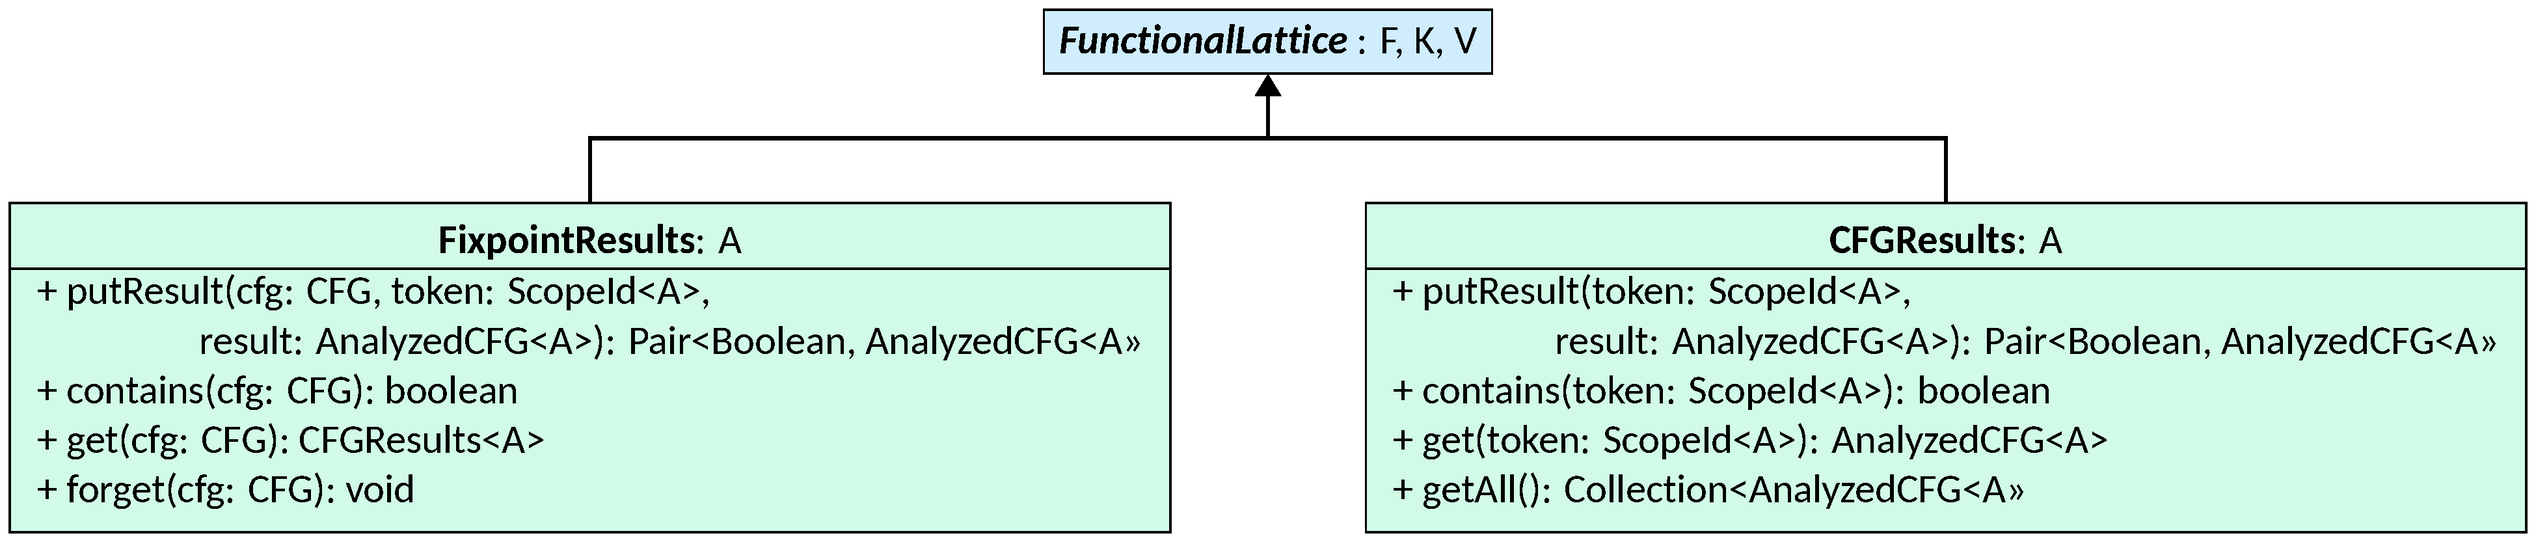
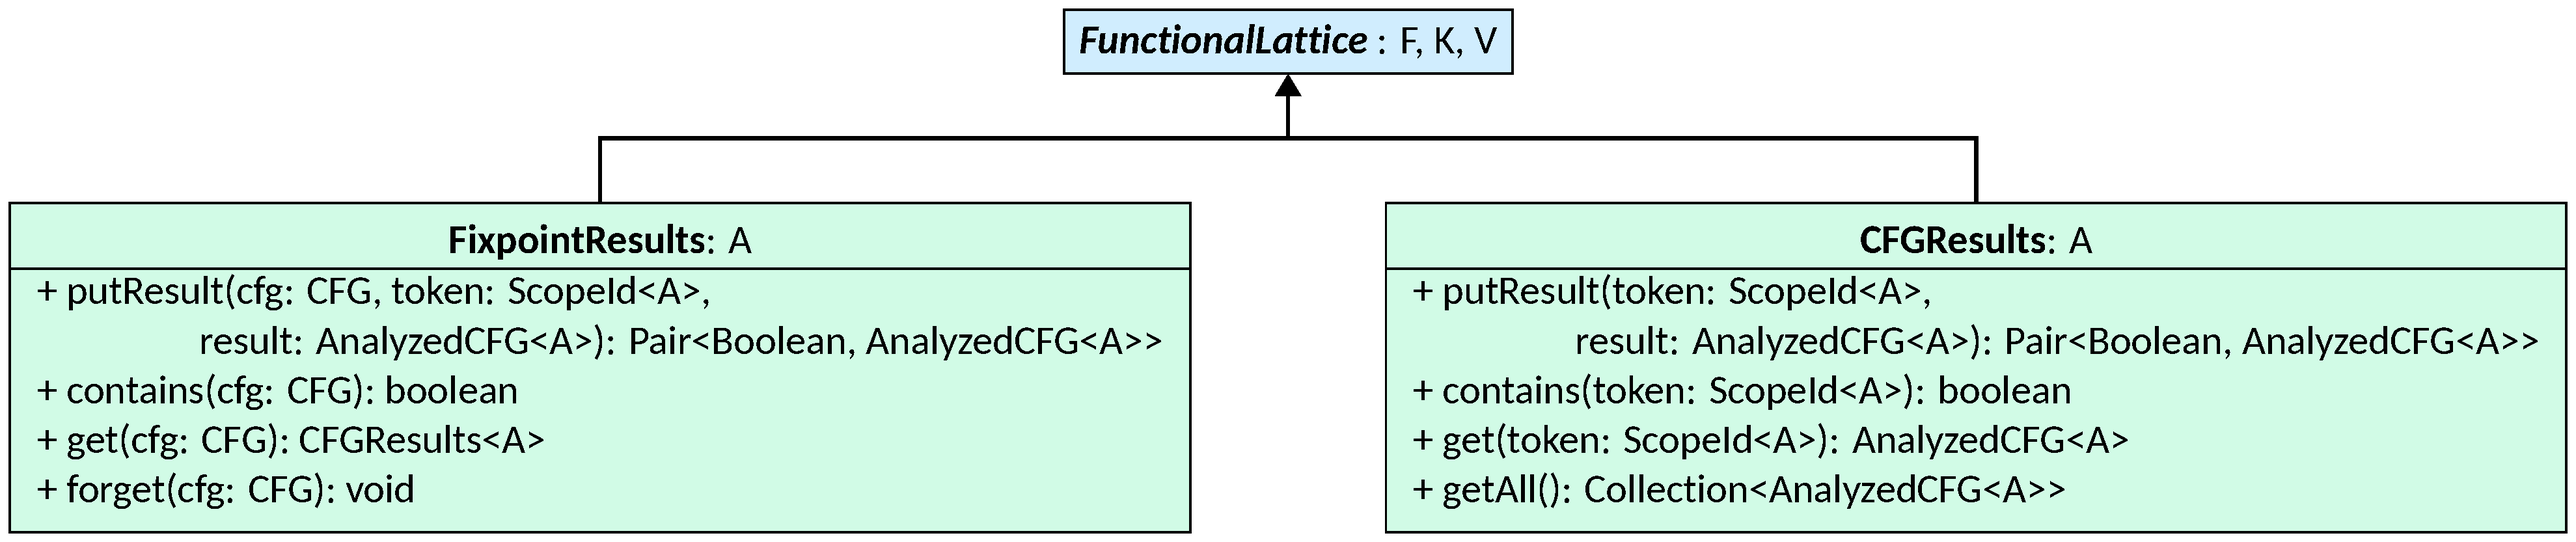
fixing angular brackets in images

diff --git a/schemes/domain-lattices.tex b/schemes/domain-lattices.tex
@@ -51,36 +51,36 @@
 		\end{tabular}};
 
 	\node[classnode, left=of ps.north west, anchor=north east] (as) {\begin{tabular}{l}
-			\multicolumn{1}{c}{\classname{AnalysisState} : A}                           \\
+			\multicolumn{1}{c}{\classname{AnalysisState} : A}                             \\
 			\hline
-			+ withExecution(state: ProgramState<A>): AnalysisState<A>                   \\
-			+ withHalt(state: ProgramState<A>): AnalysisState<A>                        \\
-			+ getExecutionState(): A                                                    \\
-			+ getExecutionExpressions(): ExpressionSet                                  \\
-			+ withExecutionExpression(expr: SymbolicExpression): AnalysisState<A>       \\
-			+ withExecutionExpressions(exprs: ExpressionSet): AnalysisState<A>          \\
-			+ getExecutionInformation(): FixpointInfo                                   \\
-			+ getExecutionInfo(key: String): Lattice<?>                                 \\
-			+ <T> getExecutionInfo(key: String, type: Class<T>): T                      \\
-			+ storeExecutionInfo(key: String, info: Lattice<?>): AnalysisState<A>       \\
-			+ weakStoreExecutionInfo(key: String, info: Lattice<?>): AnalysisState<A>   \\
-			+ getExecution(): ProgramState<A>                                           \\
-			+ getHalt(): ProgramState<A>                                                \\
-			+ getErrors(): GenericMapLattice<Error, ProgramState<A>>                    \\
-			+ getSmashedErrors(): GenericMapLattice<Type, GenericSetLattice<Statement>> \\
-			+ getSmashedErrorsState(): ProgramState<A>                                  \\
-			+ removeAllErrors(): AnalysisState<A>                                       \\
-			+ addError(): AnalysisState<A>                                              \\
-			+ addErrors(): AnalysisState<A>                                             \\
-			+ removeErrors(): AnalysisState<A>                                          \\
-			+ addSmashedError(): AnalysisState<A>                                       \\
-			+ addSmashedErrors(): AnalysisState<A>                                      \\
-			+ removeSmashedErrors(): AnalysisState<A>                                   \\
-			+ bottomExecution(): AnalysisState<A>                                       \\
-			+ topExecution(): AnalysisState<A>                                          \\
-			+ withTopMemory(): AnalysisState<A>                                         \\
-			+ withTopValues(): AnalysisState<A>                                         \\
-			+ withTopTypes(): AnalysisState<A>                                          \\
+			+ withExecution(state: ProgramState<A>): AnalysisState<A>                     \\
+			+ withHalt(state: ProgramState<A>): AnalysisState<A>                          \\
+			+ getExecutionState(): A                                                      \\
+			+ getExecutionExpressions(): ExpressionSet                                    \\
+			+ withExecutionExpression(expr: SymbolicExpression): AnalysisState<A>         \\
+			+ withExecutionExpressions(exprs: ExpressionSet): AnalysisState<A>            \\
+			+ getExecutionInformation(): FixpointInfo                                     \\
+			+ getExecutionInfo(key: String): Lattice<?>                                   \\
+			+ <T> getExecutionInfo(key: String, type: Class<T>): T                        \\
+			+ storeExecutionInfo(key: String, info: Lattice<?>): AnalysisState<A>         \\
+			+ weakStoreExecutionInfo(key: String, info: Lattice<?>): AnalysisState<A>     \\
+			+ getExecution(): ProgramState<A>                                             \\
+			+ getHalt(): ProgramState<A>                                                  \\
+			+ getErrors(): GenericMapLattice<Error, ProgramState<A>{}>                    \\
+			+ getSmashedErrors(): GenericMapLattice<Type, GenericSetLattice<Statement>{}> \\
+			+ getSmashedErrorsState(): ProgramState<A>                                    \\
+			+ removeAllErrors(): AnalysisState<A>                                         \\
+			+ addError(): AnalysisState<A>                                                \\
+			+ addErrors(): AnalysisState<A>                                               \\
+			+ removeErrors(): AnalysisState<A>                                            \\
+			+ addSmashedError(): AnalysisState<A>                                         \\
+			+ addSmashedErrors(): AnalysisState<A>                                        \\
+			+ removeSmashedErrors(): AnalysisState<A>                                     \\
+			+ bottomExecution(): AnalysisState<A>                                         \\
+			+ topExecution(): AnalysisState<A>                                            \\
+			+ withTopMemory(): AnalysisState<A>                                           \\
+			+ withTopValues(): AnalysisState<A>                                           \\
+			+ withTopTypes(): AnalysisState<A>                                            \\
 		\end{tabular}};
 
 	\draw[->, thick] (dl) |- ($(scoped.south)+(0,-0.5)$) to (scoped);

diff --git a/schemes/fixpoint-results.tex b/schemes/fixpoint-results.tex
@@ -12,22 +12,22 @@
 \begin{tikzpicture}[nodes={font={\small}, minimum width=3.5cm}]%
 	\node[abstractclassnode] (fl) {\absclassname{FunctionalLattice} : F, K, V};
 	\node[classnode] (fr) [below left=1cm and -1cm of fl] {\begin{tabular}{l}
-			\multicolumn{1}{c}{\classname{FixpointResults}: A}                   \\
+			\multicolumn{1}{c}{\classname{FixpointResults}: A}                     \\
 			\hline
-			+ putResult(cfg: CFG, token: ScopeId<A>,                             \\
-			$\qquad\qquad$result: AnalyzedCFG<A>): Pair<Boolean, AnalyzedCFG<A>> \\
-			+ contains(cfg: CFG): boolean                                        \\
-			+ get(cfg: CFG): CFGResults<A>                                       \\
-			+ forget(cfg: CFG): void                                             \\
+			+ putResult(cfg: CFG, token: ScopeId<A>,                               \\
+			$\qquad\qquad$result: AnalyzedCFG<A>): Pair<Boolean, AnalyzedCFG<A>{}> \\
+			+ contains(cfg: CFG): boolean                                          \\
+			+ get(cfg: CFG): CFGResults<A>                                         \\
+			+ forget(cfg: CFG): void                                               \\
 		\end{tabular}};
 	\node[classnode] (cr) [below right=1cm and -1cm of fl] {\begin{tabular}{l}
-			\multicolumn{1}{c}{\classname{CFGResults}: A}                        \\
+			\multicolumn{1}{c}{\classname{CFGResults}: A}                          \\
 			\hline
-			+ putResult(token: ScopeId<A>,                                       \\
-			$\qquad\qquad$result: AnalyzedCFG<A>): Pair<Boolean, AnalyzedCFG<A>> \\
-			+ contains(token: ScopeId<A>): boolean                               \\
-			+ get(token: ScopeId<A>): AnalyzedCFG<A>                             \\
-			+ getAll(): Collection<AnalyzedCFG<A>>                               \\
+			+ putResult(token: ScopeId<A>,                                         \\
+			$\qquad\qquad$result: AnalyzedCFG<A>): Pair<Boolean, AnalyzedCFG<A>{}> \\
+			+ contains(token: ScopeId<A>): boolean                                 \\
+			+ get(token: ScopeId<A>): AnalyzedCFG<A>                               \\
+			+ getAll(): Collection<AnalyzedCFG<A>{}>                               \\
 		\end{tabular}};
 
 	\draw[->, thick] (fr) |- ($(fl.south)+(0,-0.5)$) to (fl);

diff --git a/schemes/interprocedural-analysis.tex b/schemes/interprocedural-analysis.tex
@@ -18,7 +18,7 @@
 			+ getAnalysis(): Analysis<A, D>                                                                                            \\
 			+ getEventQueue(): EventQueue                                                                                              \\
 			+ fixpoint(entryState: AnalysisState<A>, conf: FixpointConfiguration<A, D>): void                                          \\
-			+ getAnalysisResultsOf(cfg: CFG): Collection<AnalyzedCFG<A>>                                                               \\
+			+ getAnalysisResultsOf(cfg: CFG): Collection<AnalyzedCFG<A>{}>                                                             \\
 			+ getAbstractResultOf(call: CFGCall, entryState: AnalysisState<A>, parameters: ExpressionSet[],                            \\
 			$\qquad\qquad$expressions: StatementStore<A>): AnalysisState<A>                                                            \\
 			+ getAbstractResultOf(call: OpenCall, entryState: AnalysisState<A>, parameters: ExpressionSet[],                           \\

diff --git a/schemes/call-graph.tex b/schemes/call-graph.tex
@@ -26,8 +26,8 @@
 			+ !getCallees(cms: Collection<CodeMember>): Collection<CodeMember>                  \\
 			+ !getCalleesTransitively(cm: CodeMember): Collection<CodeMember>                   \\
 			+ !getCalleesTransitively(cms: Collection<CodeMember>): Collection<CodeMember>      \\
-			+ !getRecursions(): Collection<Collection<CodeMember>>                              \\
-			+ !getRecursionsContaining(cm: CodeMember): Collection<Collection<CodeMember>>      \\
+			+ !getRecursions(): Collection<Collection<CodeMember>{}>                            \\
+			+ !getRecursionsContaining(cm: CodeMember): Collection<Collection<CodeMember>{}>    \\
 		\end{tabular}};
 
 	\node[classnode] (bcg) [below=of cg] {\begin{tabular}{l}

diff --git a/schemes/checks.tex b/schemes/checks.tex
@@ -65,7 +65,7 @@
 	\node[classnode, below=of reptool] (semtool) {\begin{tabular}{l}
 			\multicolumn{1}{c}{\classname{SemanticTool}: A, D}                       \\
 			\hline
-			+ getResultOf(cfg: CFG): Collection<AnalyzedCFG<A>>                      \\
+			+ getResultOf(cfg: CFG): Collection<AnalyzedCFG<A>{}>                    \\
 			+ getAnalysis(): Analysis<A, D>                                          \\
 			+ getCallGraph(): CallGraph                                              \\
 			+ getCallers(cm: CodeMember): Collection<CodeMember>                     \\
